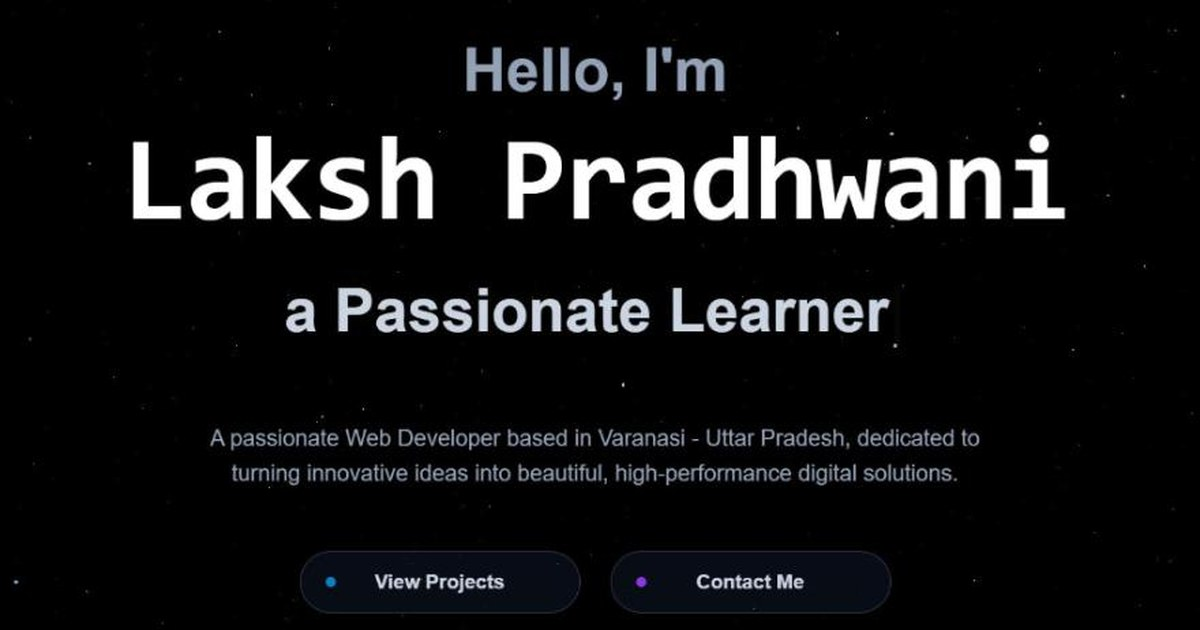
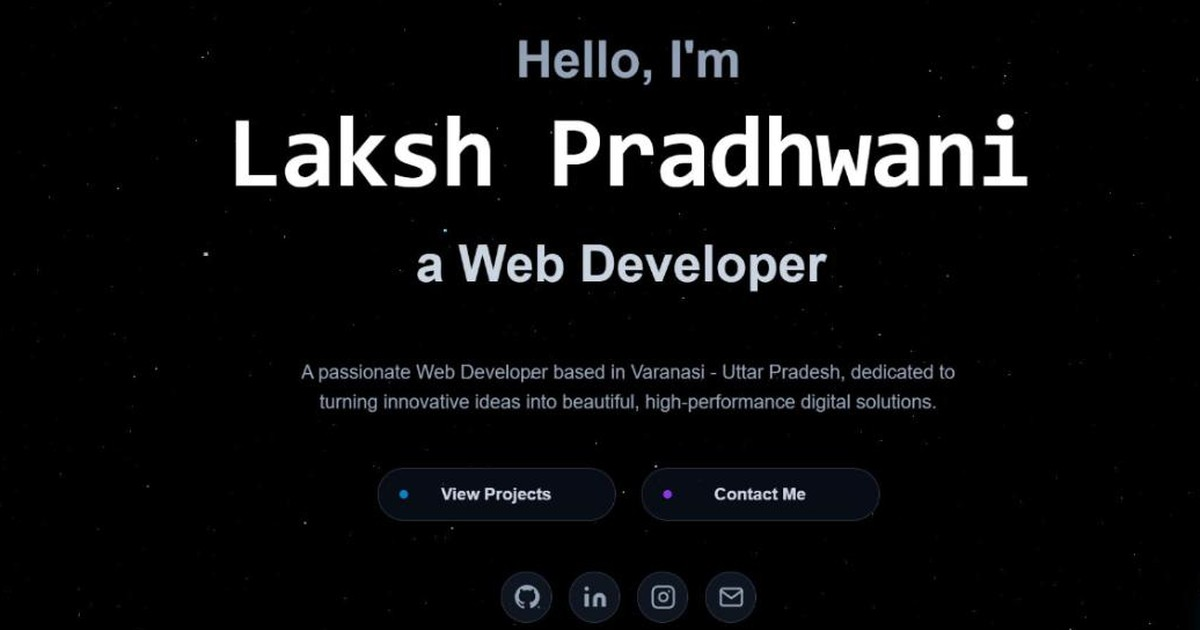
Use the Web Developer hero frame for og-image
Previous crop caught the headline on 'a Passionate Learner'.

diff --git a/HANDOFF.md b/HANDOFF.md
@@ -38,6 +38,7 @@ Migrating off the expired lakshp.live. URLs (meta tags, `/resume` redirect, resu
 - Laksh chose small commits, pushed after each (every push to `main` goes live on Vercel). Session of 8 Oct 2026.
 
 ## Session log (newest first)
+- 2026-10-09: replaced `public/og-image.jpg` with a hero crop captured while the headline reads "a Web Developer" (the first version showed "a Passionate Learner").
 - 2026-10-09: added `public/signature/icon-{linkedin,github,instagram}.png` for the new Gmail signature (logo removed from the signature at Laksh's request).
 - 2026-10-09: added `public/og-image.jpg` (1200x630 crop of the live hero); `index.html` already pointed at it, so link previews (LinkedIn, WhatsApp, X) now have an image instead of a 404.
 - 2026-10-09: added `public/signature/lp-logo.png` (opaque version of `icon-192.png`) to host the logo for the Gmail signature on the new domain.
@@ -48,12 +49,13 @@ Migrating off the expired lakshp.live. URLs (meta tags, `/resume` redirect, resu
 <!-- handoff:auto:start -->
 ## Auto: repo state
 
-_Refreshed 9 Oct 2026, 1:04 pm IST by `scripts/handoff.mjs` (runs on every commit). Don't edit inside this block._
+_Refreshed 9 Oct 2026, 1:15 pm IST by `scripts/handoff.mjs` (runs on every commit). Don't edit inside this block._
 
 Branch: `main` · remote: https://github.com/TheRealLaksh/Portfolio-V2.git
 
 ### Last 15 commits
 
+- `21ba901` 2026-10-09 13:04 Add social icons for the email signature
 - `8966bdf` 2026-10-09 01:07 Add the missing og-image for link previews
 - `4c1deb1` 2026-10-09 00:59 Host the LP logo for the email signature
 - `2d7b824` 2026-10-09 00:32 Use work@lakshpradhwani.com as the contact address
@@ -68,14 +70,11 @@ Branch: `main` · remote: https://github.com/TheRealLaksh/Portfolio-V2.git
 - `463e602` 2026-01-21 09:00 Update 08-Contact.jsx
 - `4f5d709` 2026-01-21 08:40 redirect
 - `b5dc396` 2026-01-17 13:15 Create me.webp
-- `66f565d` 2025-12-31 01:43 Delete spotify.js
 
 ### Uncommitted changes at refresh time
 
 ```
 M  HANDOFF.md
-A  public/signature/icon-github.png
-A  public/signature/icon-instagram.png
-A  public/signature/icon-linkedin.png
+M  public/og-image.jpg
 ```
 <!-- handoff:auto:end -->
